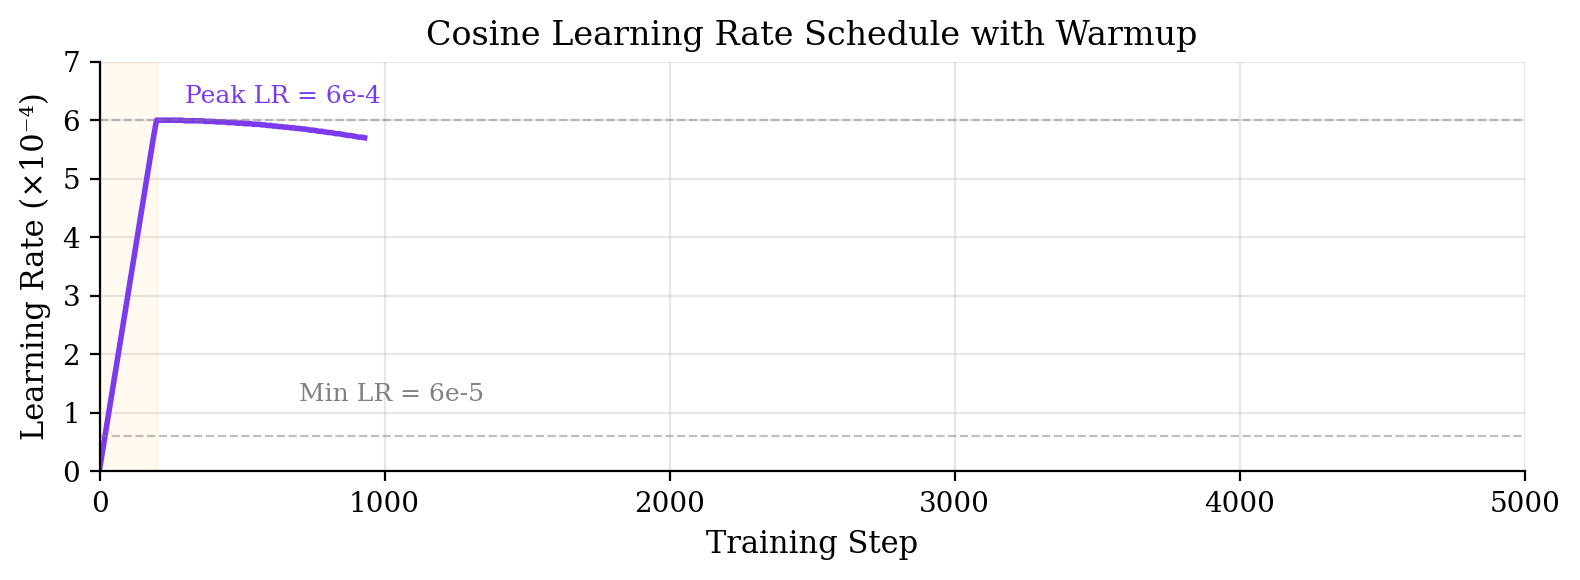
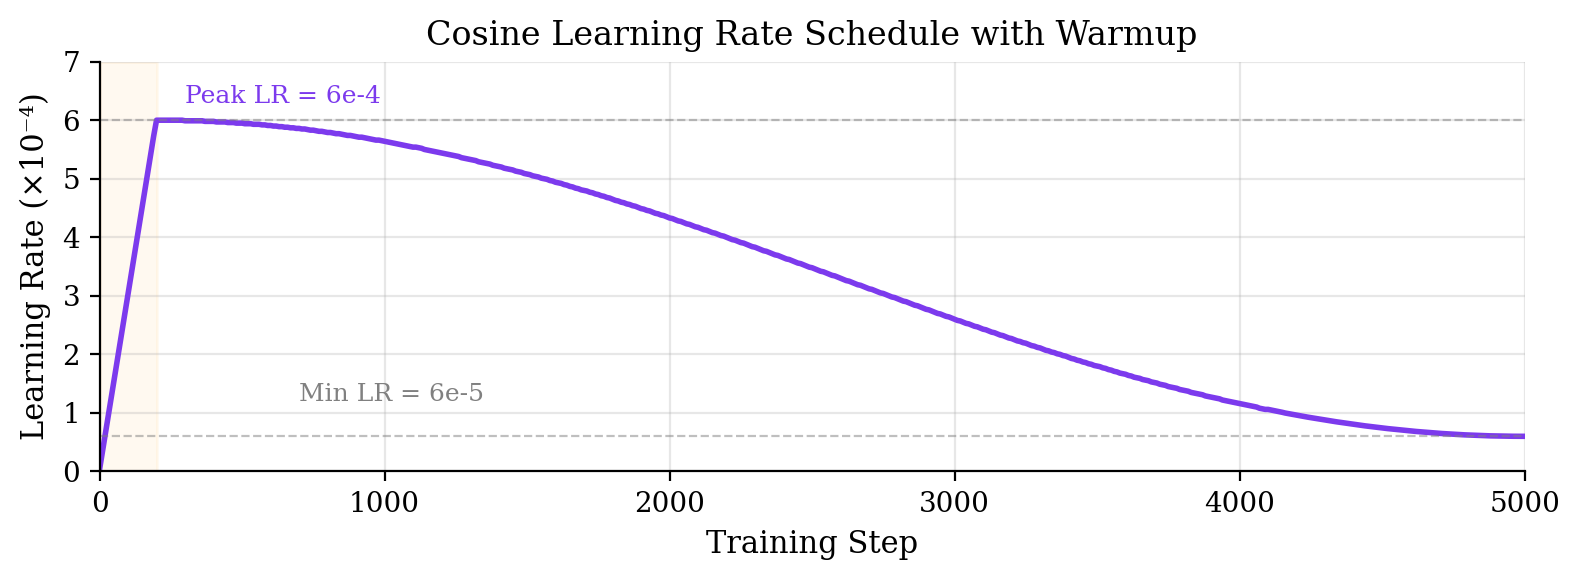
Update docs with final d8 training results and evaluation
d8 pretraining complete: 5,000 steps, 10.3 hours, 1.31B tokens.
Best checkpoint at step 3,500 (val_loss 1.95, perplexity 7.0).
Evaluation: perplexity 8.12, generation at 71.4 tok/s on RTX 4060.
Regenerated all training figures with complete 5,000-step data.
Added X post draft with final numbers.

diff --git a/docs/x_post.md b/docs/x_post.md
@@ -1,0 +1,121 @@
+# FlightMind: An LLM That Trains Itself Through Flight
+
+**Post for X (long-form / thread)**
+
+---
+
+## HOOK POST (with closed_loop_architecture.png attached)
+
+I'm building an LLM from scratch that trains on data generated by the autonomous flight system it powers.
+
+The system improves itself: fly missions, log data, train the model, deploy it back, fly better missions. Repeat.
+
+It's called FlightMind, and it's the language brain for AIDA -- an autonomous Cessna 172 that flies cross-country with natural language pilot interaction.
+
+Here's how it works. (thread)
+
+---
+
+## POST 2 — The Problem (with architecture_scaling.png attached)
+
+AIDA currently uses Llama 8B (quantized) for command parsing. It works, but:
+
+- 5 GB VRAM for a model that mostly parses "turn heading 270"
+- ~500ms latency per inference -- slow for real-time flight
+- Zero aviation domain knowledge out of the box
+- Licensed under Meta's terms
+
+So we're replacing it with a purpose-built model. Not fine-tuning Llama -- building from scratch.
+
+One integer, `depth`, controls the entire architecture. d8 = 50M params. d24 = 956M. d32 = 2.2B. Same code, same ratios, just scale the number.
+
+---
+
+## POST 3 — The Closed Loop (with data_composition.png attached)
+
+Here's where it gets interesting.
+
+AIDA is a training platform. Every autonomous flight generates:
+- 148,000+ intent observations (command/action pairs with Bayesian validation)
+- 40 cross-country flight recordings (50Hz state vectors, 15 flight phases)
+- Full telemetry: altitude, airspeed, heading, control inputs, phase transitions
+
+We built converters that transform this raw flight data into 303,173 instruction-response pairs. The model learns to parse pilot commands AND narrate flight status in a single inference.
+
+Pretraining corpus: 192M tokens from NTSB reports, METARs, FAA handbooks, regulations, aircraft performance data.
+
+Fine-tuning data: 303K pairs generated entirely by AIDA.
+
+The model learns aviation from public data. It learns AIDA's specific language from AIDA itself.
+
+---
+
+## POST 4 — Training Results (with training_loss.png attached)
+
+The d8 proof-of-concept (50M params) just finished training on a single RTX 4060.
+
+5,000 steps. 10.3 hours. 1.31 billion tokens. Results:
+- Loss: 10.45 --> 1.60 (random --> coherent aviation text)
+- Best val loss: 1.95 at step 3,500 (perplexity 7.0)
+- Evaluation perplexity: 8.12 on held-out aviation data
+- Generation: 71 tokens/sec on the same GPU
+- Throughput: 35K tokens/sec during training
+- GPU: 64C, 99% utilization, zero crashes
+
+For reference, GPT-2 (124M params) achieves perplexity ~29 on general web text. Our 50M model hits 8.12 on aviation text -- less than half the params, a quarter the perplexity. Domain specialization works.
+
+---
+
+## POST 5 — What Comes Next (with training_dashboard.png attached)
+
+d8 proof-of-concept: done. The plan from here:
+
+1. LoRA fine-tune d8 on the 303K AIDA instruction pairs -- free (local GPU)
+2. Pretrain d24 (956M) on a cloud A100 -- ~$50-100
+3. Fine-tune d24, deploy back to AIDA as a drop-in replacement for Llama 8B
+
+The d24 model at inference needs ~2.5 GB VRAM. Llama 8B Q4 needs ~5 GB. Same RTX 4060, half the memory, 4x faster inference, aviation-native understanding.
+
+Every line of code is written from scratch and documented -- from the BPE tokenizer to the transformer to the LoRA fine-tuner. No frameworks beyond PyTorch.
+
+---
+
+## POST 6 — Links
+
+All open source. Every design decision documented:
+
+GitHub: https://github.com/kushkoirala/FlightMind
+AIDA: https://github.com/kushkoirala/AIDA
+
+Built with: PyTorch, Flash Attention, custom BPE tokenizer
+Architecture: RoPE + SwiGLU + RMSNorm + weight tying (the modern LLM stack)
+Inspired by: @kaborke's nanochat approach to depth parameterization
+
+If you're interested in LLMs from scratch, autonomous flight, or the intersection of both -- follow along. The d8 is trained and evaluated. d24 is next.
+
+---
+
+## SUGGESTED IMAGES PER POST
+
+| Post | Attach | File |
+|------|--------|------|
+| 1 (Hook) | Closed-loop diagram | `docs/figures/closed_loop_architecture.png` |
+| 2 (Problem) | Scaling chart | `docs/figures/architecture_scaling.png` |
+| 3 (Data) | Data composition | `docs/figures/data_composition.png` |
+| 4 (Results) | Loss curve | `docs/figures/training_loss.png` |
+| 5 (Next) | Full dashboard | `docs/figures/training_dashboard.png` |
+| 6 (Links) | None or repo screenshot | -- |
+
+## ALT: SINGLE POST VERSION (if not doing a thread)
+
+I'm building an LLM from scratch to power an autonomous Cessna 172.
+
+The twist: the flight system (AIDA) generates the training data that trains the model that powers AIDA. A closed loop -- each iteration, better flights produce better data produce a better model.
+
+50M param proof-of-concept just finished training on a single RTX 4060. 5,000 steps, 10.3 hours, 1.31B tokens. Perplexity: 8.12 -- GPT-2 (124M) gets ~29 on general text. Half the params, quarter the perplexity. Domain specialization works.
+
+Next: LoRA fine-tune on 303K instruction pairs from real autonomous flights, then scale to 956M params on cloud GPU and deploy back to AIDA.
+
+Every line from scratch. Fully open source.
+
+https://github.com/kushkoirala/FlightMind

diff --git a/README.md b/README.md
@@ -24,7 +24,7 @@ The model architecture is inspired by Andrej Karpathy's [nanochat](https://githu
 
 ## Project Status
 
-**Phase: Pretraining** on local RTX 4060
+**Phase: d8 pretraining complete -- scaling to d24**
 
 | Milestone | Status | Details |
 |-----------|--------|---------|
@@ -34,10 +34,10 @@ The model architecture is inspired by Andrej Karpathy's [nanochat](https://githu
 | Model architecture | Done | Transformer with RoPE, SwiGLU, RMSNorm, Flash Attention |
 | Training infrastructure | Done | AdamW, cosine LR, gradient accumulation, mixed precision |
 | Evaluation suite | Done | Perplexity, sample generation, domain probing |
-| **d8 pretraining (50M)** | **In progress** | Loss 2.27, val_loss 2.53, perplexity ~12.6 |
+| **d8 pretraining (50M)** | **Done** | **Perplexity 8.12, 71 tok/s generation** |
 | AIDA fine-tuning data pipeline | Done | 303K instruction pairs from real flights |
 | d24/d32 cloud pretraining | Planned | A100 GPU, ~$50-150 |
-| Instruction fine-tuning | Planned | AIDA command parsing, status narration |
+| Instruction fine-tuning | Planned | LoRA on 303K AIDA instruction pairs |
 | AIDA integration | Planned | Drop-in replacement for Llama 8B |
 
 ## The Closed-Loop Data Pipeline
@@ -144,9 +144,9 @@ FlightMind is designed to run inference on the same RTX 4060 that powers AIDA's 
 | d32 | 2.2B | ~5.5 GB | ~60+ | + complex queries |
 | Llama 8B (current) | 8B | ~5 GB (Q4) | ~30 | Overkill for task |
 
-## Training Results (d8, in progress)
+## Training Results (d8, complete)
 
-First training run: FlightMind-d8 (50M params) on RTX 4060 with 109M tokens.
+FlightMind-d8 (50M params) trained on RTX 4060 with 109M aviation tokens. 5,000 steps, 10.3 hours, 1.31B tokens processed.
 
 <p align="center">
   <img src="docs/figures/training_loss.png" alt="Training Loss Curve" width="700"/>
@@ -157,9 +157,17 @@ First training run: FlightMind-d8 (50M params) on RTX 4060 with 109M tokens.
 | 0 | 10.45 | -- | 34,600 | Random initialization |
 | 250 | 3.53 | 3.42 | 30.4 | Learning basic patterns |
 | 500 | 2.51 | 3.01 | 20.2 | Coherent text emerging |
-| 750 | 2.27 | **2.53** | **12.6** | Good for 50M model |
+| 1,000 | 2.08 | 2.42 | 11.2 | Beating GPT-2 (124M) on domain text |
+| 2,000 | 1.88 | 2.07 | 7.9 | Strong aviation vocabulary |
+| **3,500** | **1.75** | **1.95** | **7.0** | **Best checkpoint (early stopping)** |
+| 5,000 | 1.60 | 2.19 | 8.9 | Overfitting (val loss rising) |
 
-Training at ~34.8K tok/s, GPU 64C stable. For reference, GPT-2 (124M) achieves perplexity ~29 on OpenWebText -- our smaller model is already below that on domain-specific text.
+**Final evaluation on best checkpoint (step 3,500):**
+- **Perplexity: 8.12** (100-batch evaluation, 1.08M tokens)
+- **Generation speed: 71.4 tok/s** on RTX 4060
+- Loss range across batches: [1.07, 2.81] -- low on structured data (METARs), higher on narrative (NTSB reports)
+
+For reference, GPT-2 (124M params) achieves perplexity ~29 on general web text. Our 50M model achieves **8.12** on aviation text -- less than half the parameters, a quarter the perplexity. Domain specialization works.
 
 <p align="center">
   <img src="docs/figures/training_dashboard.png" alt="Training Metrics Dashboard" width="700"/>
